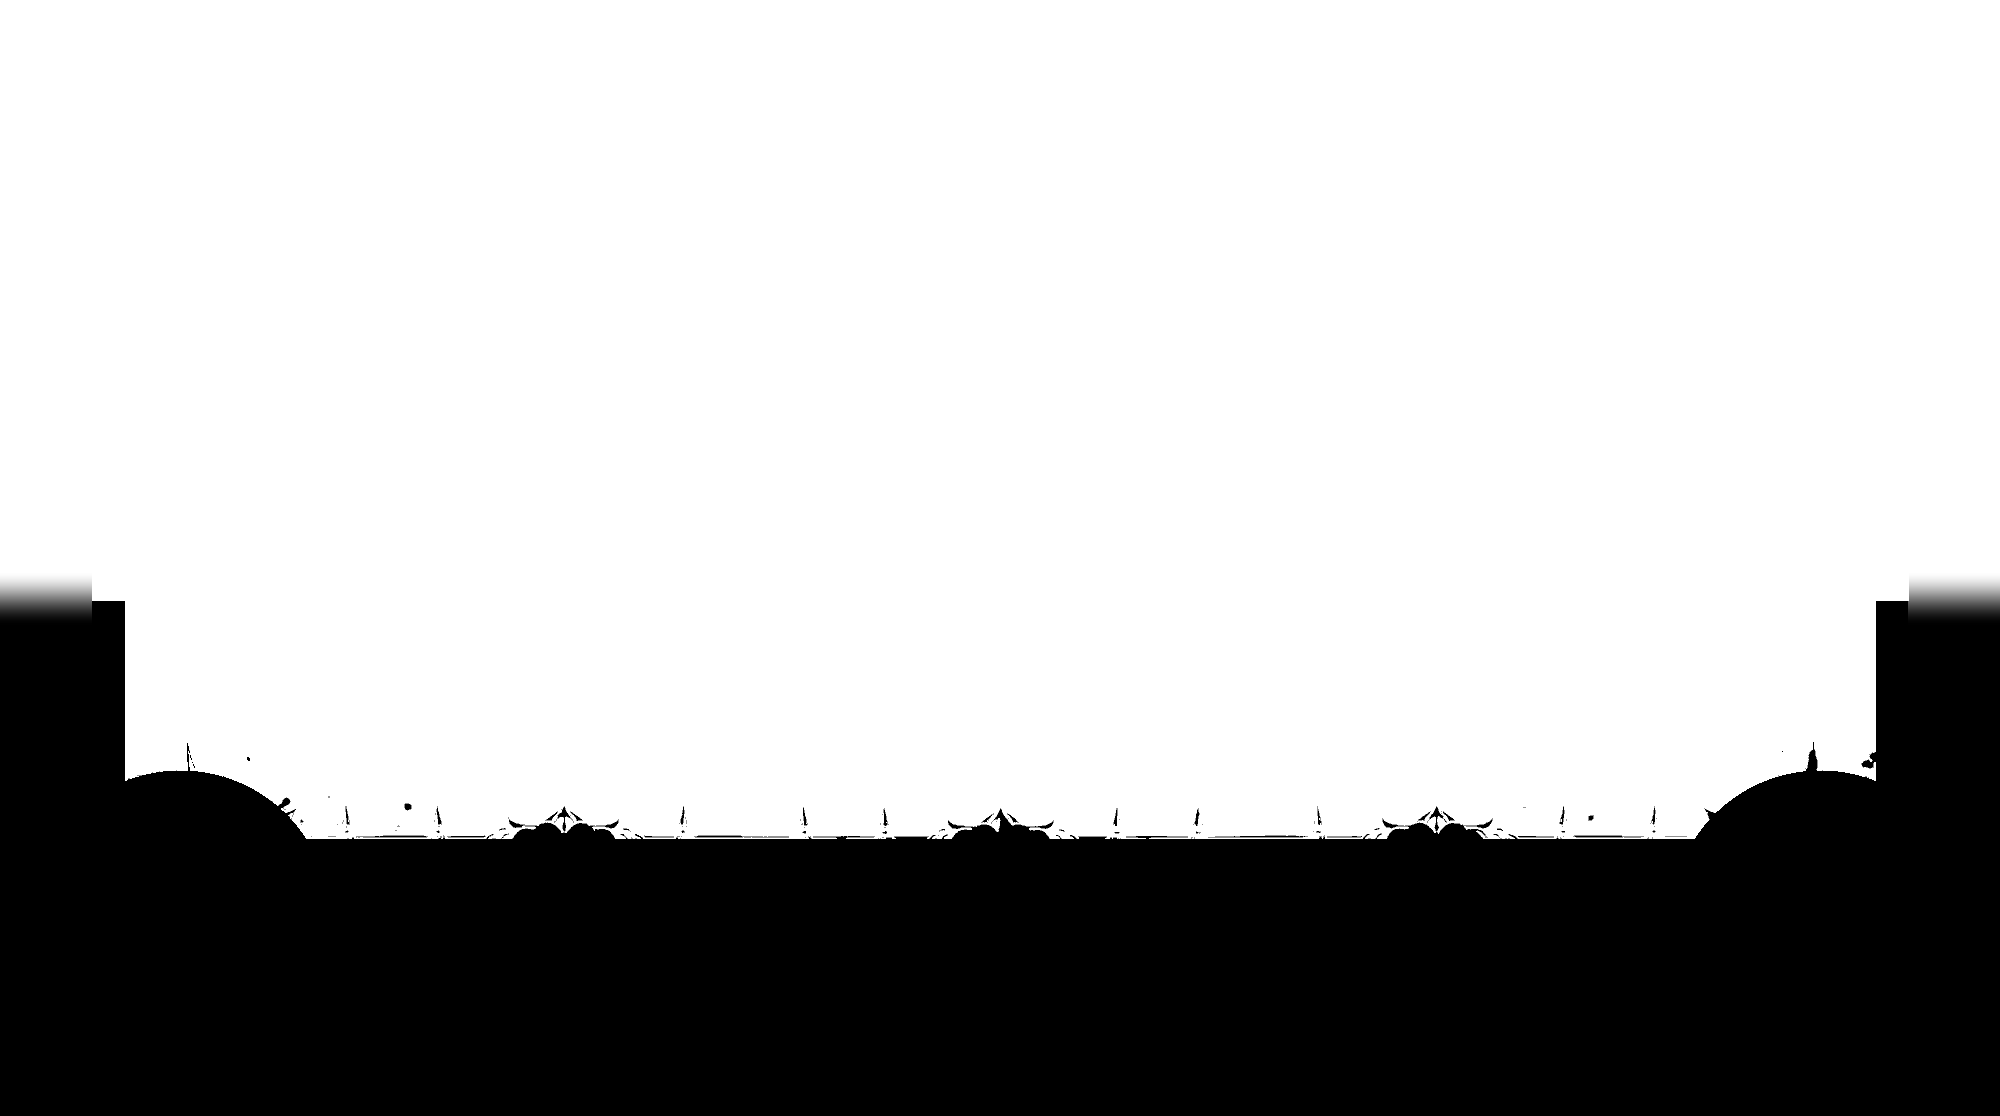
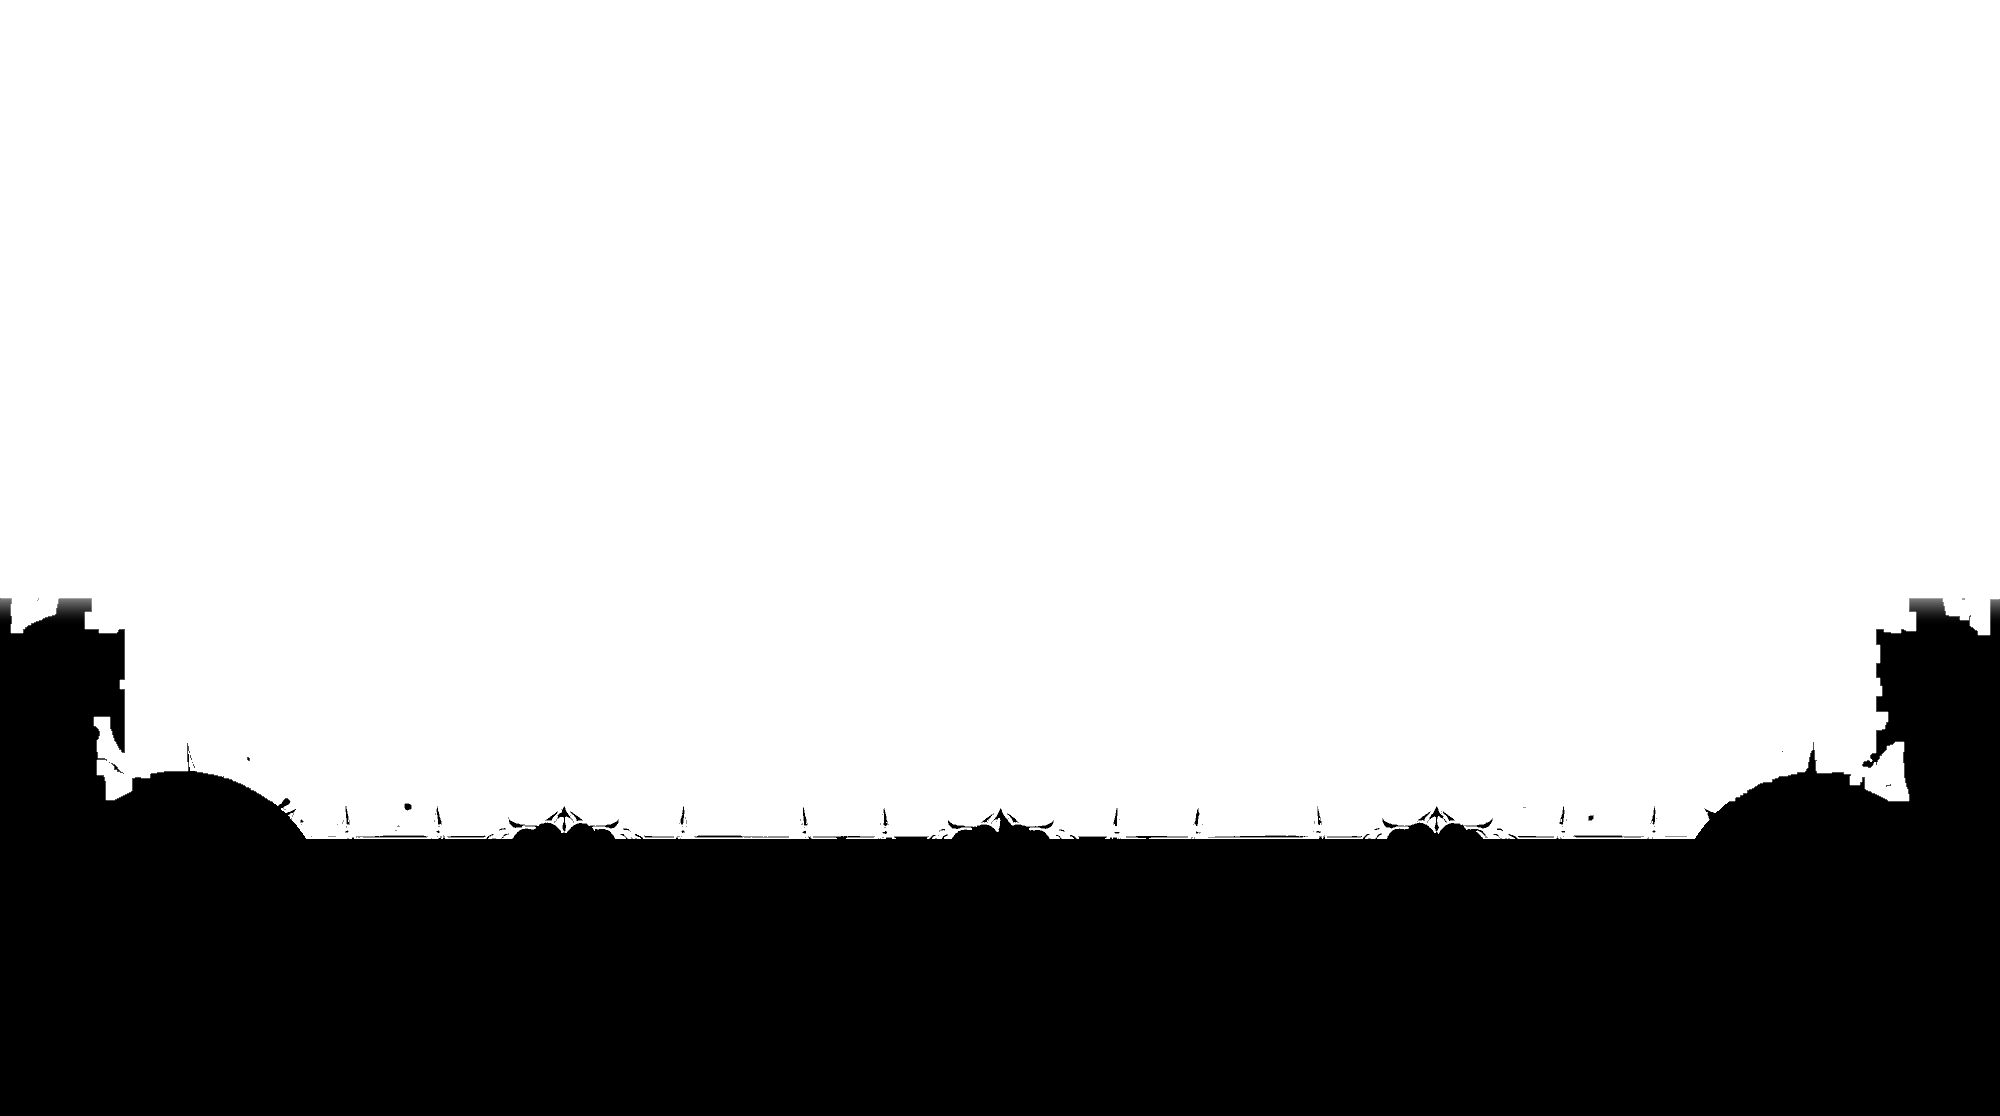
黑暗大陸：外框骷髏去背乾淨（手機 frame-clean＋頭頂疊在地圖上、PC 遮罩挖掉暗底），20261019d

diff --git a/屠龍勇者/index.html b/屠龍勇者/index.html
@@ -183,11 +183,19 @@
         border-style: solid; border-color: transparent; border-width: 0;
         /* frame-notop.jpg＝frame.jpg 去掉上方拱門（原圖 y 715 以上，2026-10-15 使用者要求滿版）；頂端 25px 還有拱門殘邊，slice 跳過 */
         /* frame-nopillar.png（2026-10-19，第 54 節）：frame-notop 縮 75%、左右骷髏頭頂的符文石柱改透明（底部淡入），地圖延伸到左右邊；slice 跟著 ×0.75 */
-        border-image-source: url(images/frame-nopillar.png?v=1);
+        /* frame-clean.png：再把骷髏、法球後面的暗色階梯底（欄杆以上）去背，只留骷髏與法球（2026-10-19，第 54 節） */
+        border-image-source: url(images/frame-clean.png?v=1);
         border-image-slice: 19 77 491 78 fill;
         border-image-width: 0 calc(var(--s) * 102px) calc(var(--s) * 655px) calc(var(--s) * 104px);
         border-image-repeat: stretch round;
     }
+    /* 骷髏頭頂那一段（原圖 y 630～880）再疊一層在地圖上面，頭頂不會被地圖下緣切掉；去背的地方是透明的（第 54 節） */
+    #frame::after {
+        content: ''; position: absolute; left: 0; right: 0; bottom: calc(var(--s) * 405px); height: calc(var(--s) * 250px);
+        z-index: 2; pointer-events: none;
+        background: url(images/frame-clean.png?v=1) 0 calc(var(--s) * -630px) / 100% auto no-repeat;
+    }
+    #frame.pc::after { display: none; }
     /* 金幣、防禦、MR：經驗條正上方，左右分在等級兩側（手機原圖 y 1712～1744；PC y 870～904） */
     .hud-stats {
         position: absolute; left: calc(var(--s) * 390px); right: calc(var(--s) * 390px); bottom: calc(var(--s) * 258px); height: calc(var(--s) * 32px);
@@ -423,8 +431,8 @@
         /* frame-pc-notop：上方拱門整段拿掉、左右柱子接到頂（2026-10-11，第 19 節） */
         background: url(images/frame-pc-notop.jpg?v=1) center / 100% 100% no-repeat;
         /* frame-pc-nopillar-mask：左右骷髏頭頂的石柱（x < 92、x ≥ 1908、y < 625）也遮掉，y 570～625 淡入（2026-10-19，第 54 節） */
-        -webkit-mask: url(images/frame-pc-nopillar-mask.png?v=1) center / 100% 100% no-repeat;
-        mask: url(images/frame-pc-nopillar-mask.png?v=1) center / 100% 100% no-repeat;
+        -webkit-mask: url(images/frame-pc-nopillar-mask.png?v=2) center / 100% 100% no-repeat;
+        mask: url(images/frame-pc-nopillar-mask.png?v=2) center / 100% 100% no-repeat;
     }
     #frame.pc .pillar, #frame.pc .drawer { display: none; }
     #frame.pc #panel { left: 0; right: 0; top: 0; bottom: calc(var(--s) * 278px); padding: 0; overflow: hidden; z-index: 1; }
@@ -866,44 +874,44 @@
 <div id="toast-layer"></div>
 
 <!-- 載入順序：設定 → 資料 → 玩家 → 系統 → 介面 → 進入點（換版時所有 ?v= 一起改，見 ARCHITECTURE.md） -->
-<script src="data/config.js?v=20261019c"></script>
-<script src="data/classes.js?v=20261019c"></script>
-<script src="data/skills.js?v=20261019c"></script>
-<script src="data/items.js?v=20261019c"></script>
-<script src="data/spellbook.js?v=20261019c"></script>
-<script src="data/monsters.js?v=20261019c"></script>
-<script src="data/zones.js?v=20261019c"></script>
-<script src="data/quests.js?v=20261019c"></script>
-<script src="data/resonance.js?v=20261019c"></script>
-<script src="data/player.js?v=20261019c"></script>
-<script src="data/enchant.js?v=20261019c"></script>
-<script src="data/affix.js?v=20261019c"></script>
-<script src="data/craft.js?v=20261019c"></script>
-<script src="data/maps.js?v=20261019c"></script>
-<script src="data/combat.js?v=20261019c"></script>
-<script src="data/town.js?v=20261019c"></script>
-<script src="data/save.js?v=20261019c"></script>
-<script src="data/cloud.js?v=20261019c"></script>
-<script src="data/offline.js?v=20261019c"></script>
-<script src="data/ui.js?v=20261019c"></script>
-<script src="data/sfx.js?v=20261019c"></script>
-<script src="data/bgm.js?v=20261019c"></script>
-<script src="data/ui-create.js?v=20261019c"></script>
-<script src="data/ui-panels.js?v=20261019c"></script>
-<script src="data/codex.js?v=20261019c"></script>
-<script src="data/raid.js?v=20261019c"></script>
-<script src="data/clan.js?v=20261019c"></script>
-<script src="data/chat.js?v=20261019c"></script>
-<script src="data/rank.js?v=20261019c"></script>
-<script src="data/wb.js?v=20261019c"></script>
-<script src="data/market.js?v=20261019c"></script>
-<script src="data/vault.js?v=20261019c"></script>
-<script src="data/presence.js?v=20261019c"></script>
-<script src="data/ui-frame.js?v=20261019c"></script>
-<script src="data/icons.js?v=20261019c"></script>
-<script src="data/hotbar.js?v=20261019c"></script>
-<script src="data/ui-scene.js?v=20261019c"></script>
-<script src="data/pwa.js?v=20261019c"></script>
-<script src="data/main.js?v=20261019c"></script>
+<script src="data/config.js?v=20261019d"></script>
+<script src="data/classes.js?v=20261019d"></script>
+<script src="data/skills.js?v=20261019d"></script>
+<script src="data/items.js?v=20261019d"></script>
+<script src="data/spellbook.js?v=20261019d"></script>
+<script src="data/monsters.js?v=20261019d"></script>
+<script src="data/zones.js?v=20261019d"></script>
+<script src="data/quests.js?v=20261019d"></script>
+<script src="data/resonance.js?v=20261019d"></script>
+<script src="data/player.js?v=20261019d"></script>
+<script src="data/enchant.js?v=20261019d"></script>
+<script src="data/affix.js?v=20261019d"></script>
+<script src="data/craft.js?v=20261019d"></script>
+<script src="data/maps.js?v=20261019d"></script>
+<script src="data/combat.js?v=20261019d"></script>
+<script src="data/town.js?v=20261019d"></script>
+<script src="data/save.js?v=20261019d"></script>
+<script src="data/cloud.js?v=20261019d"></script>
+<script src="data/offline.js?v=20261019d"></script>
+<script src="data/ui.js?v=20261019d"></script>
+<script src="data/sfx.js?v=20261019d"></script>
+<script src="data/bgm.js?v=20261019d"></script>
+<script src="data/ui-create.js?v=20261019d"></script>
+<script src="data/ui-panels.js?v=20261019d"></script>
+<script src="data/codex.js?v=20261019d"></script>
+<script src="data/raid.js?v=20261019d"></script>
+<script src="data/clan.js?v=20261019d"></script>
+<script src="data/chat.js?v=20261019d"></script>
+<script src="data/rank.js?v=20261019d"></script>
+<script src="data/wb.js?v=20261019d"></script>
+<script src="data/market.js?v=20261019d"></script>
+<script src="data/vault.js?v=20261019d"></script>
+<script src="data/presence.js?v=20261019d"></script>
+<script src="data/ui-frame.js?v=20261019d"></script>
+<script src="data/icons.js?v=20261019d"></script>
+<script src="data/hotbar.js?v=20261019d"></script>
+<script src="data/ui-scene.js?v=20261019d"></script>
+<script src="data/pwa.js?v=20261019d"></script>
+<script src="data/main.js?v=20261019d"></script>
 </body>
 </html>

diff --git a/屠龍勇者/data/config.js b/屠龍勇者/data/config.js
@@ -1,6 +1,6 @@
 // 屠龍勇者：全域設定、常數、共用小工具（最先載入，不依賴其他檔案）
 const GAME_TITLE = '黑暗大陸';   // 遊戲名稱（2026-10-12 由「屠龍勇者」改名；資料夾與網址不變）
-const GAME_VERSION = '20261019c';
+const GAME_VERSION = '20261019d';
 
 // 與凡塵修仙傳同網域，localStorage 共用，key 一定要有 dragonSlayer_ 前綴
 const SAVE_KEY = 'dragonSlayer_save_v2';   // 欄位 0；其他欄位是 SAVE_KEY + '_s' + 編號（save.js slotKey）

diff --git a/屠龍勇者/ARCHITECTURE.md b/屠龍勇者/ARCHITECTURE.md
@@ -66,7 +66,7 @@
 
 ## 3. 開發規則
 
-- **版本號**：改任何 JS 都要把 `index.html` 全部 `?v=` 與 `config.js` 的 `GAME_VERSION` 一起換新（目前 `20261019c`）。
+- **版本號**：改任何 JS 都要把 `index.html` 全部 `?v=` 與 `config.js` 的 `GAME_VERSION` 一起換新（目前 `20261019d`）。
 - **合併衝突**：合併後一定要搜尋 `<<<<<<<`。2026-10-09 曾把衝突標記留在 `index.html`／`config.js`／`ui-scene.js`，
   整個遊戲載不起來（看起來像「存檔壞掉」，其實存檔還在），`20261009u` 修復時採用較新的 `20261009t` 那一邊。
   SW 依版本號快取 JS，**沒換版本號，已安裝 App 的玩家會一直跑舊程式**。
@@ -1650,3 +1650,9 @@ python3 tools/cut-sprites.py tools/sprite-src/mage-walk.json --preview 預覽.pn
 - **PC 橫式外框**（版本 `20261019c`）：外框圖 `frame-pc-notop.jpg` 不變，換遮罩 `images/frame-pc-nopillar-mask.png`（`frame-pc-notop-mask.png` 複製後，原圖座標 x < 92、x ≥ 1908 在 y < 625 的 alpha 乘上 0，y 570～625 smoothstep 淡入），
   `#frame.pc #panel` 左右改成 0，大地圖延伸到左右邊。原遮罩檔留著不用。
   驗證：預覽窗格在大尺寸時截圖只截到局部（工具問題），改用 PowerShell 把外框＋新遮罩疊在沉眠龍窟圖上合成預覽，確認石柱消失、骷髏／法球／欄杆完整；頁面上元素位置（外框、地圖 1280×536、法球）正確；Console 無錯誤。
+- **骷髏去背**（版本 `20261019d`，使用者回報「畫面骷髏沒有去背景乾淨」）：石柱拿掉後，骷髏後面還有原圖的暗色階梯底，地圖下緣也切到骷髏頭頂。
+  - 手機：`images/frame-clean.png`（`frame-nopillar.png` 再處理）＝縮圖座標 y 440～650（欄杆以上）從頂端與中間黑帶開始 flood fill 亮度 < 56 的暗色像素改透明（邊緣 70%），只留骷髏、翅膀、法球；`border-image` 改用這張。
+    另外 `#frame::after` 把原圖 y 630～880 那段（`background-position-y: -630 × --s`、寬 100%）疊在地圖上面（z-index 2、不吃點擊），骷髏頭頂不會被地圖下緣切掉；PC 不顯示。
+  - PC：`frame-pc-nopillar-mask.png` 從 `frame-pc-notop-mask.png` 重新做：石柱清掉＋淡入（同上）、清掉頭頂旁邊的格紋殘邊 [92,560,128,628]／[1872,560,1908,628]，
+    再在兩個角落 [0,560,330,800]、[1670,560,1999,800] 從已透明處 flood fill 暗色（亮度 < 48），**只穿過 9×9 全暗的寬通道再往回長 4px**（肋骨縫太窄不會被挖空，骷髏保持實心）；網址改 `?v=2`。
+  - 一次性 PowerShell＋C# 產生，沒有留腳本；驗證用合成圖（外框＋遮罩疊在地圖上）與手機截圖。
